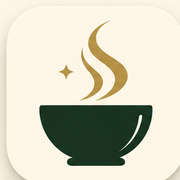
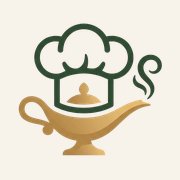
feat: use Recipe Genie mark for iPhone Home Screen

diff --git a/web/src/components/layout/bottom-nav.tsx b/web/src/components/layout/bottom-nav.tsx
@@ -3,6 +3,7 @@
 import { UtensilsCrossed, CalendarDays, ShoppingCart, Package } from "lucide-react"
 import Link, { useLinkStatus } from "next/link"
 import { usePathname } from "next/navigation"
+import { useEffect, useState } from "react"
 import { cn } from "@/lib/utils"
 
 const navItems = [
@@ -15,13 +16,15 @@ const navItems = [
 function BottomNavItem({
   item,
   isActive,
+  isSelected,
 }: {
   item: (typeof navItems)[number]
   isActive: boolean
+  isSelected: boolean
 }) {
   const { pending } = useLinkStatus()
   const Icon = item.icon
-  const isHighlighted = isActive || pending
+  const isHighlighted = isSelected || pending
 
   return (
     <>
@@ -29,7 +32,7 @@ function BottomNavItem({
         className={cn(
           "h-5 w-5 transition-transform duration-150",
           isHighlighted && "scale-110",
-          pending && "animate-pulse"
+          (pending || (isSelected && !isActive)) && "animate-pulse"
         )}
         aria-hidden
       />
@@ -41,13 +44,20 @@ function BottomNavItem({
       >
         {item.label}
       </span>
-      {pending && <span className="sr-only">Loading {item.label}</span>}
+      {(pending || (isSelected && !isActive)) && (
+        <span className="sr-only">Loading {item.label}</span>
+      )}
     </>
   )
 }
 
 export function BottomNav() {
   const pathname = usePathname()
+  const [selectedHref, setSelectedHref] = useState<string | null>(null)
+
+  useEffect(() => {
+    setSelectedHref(null)
+  }, [pathname])
 
   return (
     <nav
@@ -59,22 +69,30 @@ export function BottomNav() {
         {navItems.map((item) => {
           const isActive =
             pathname === item.href || pathname.startsWith(`${item.href}/`)
+          const isSelected = selectedHref
+            ? selectedHref === item.href
+            : isActive
 
           return (
             <Link
               key={item.href}
               href={item.href}
               aria-current={isActive ? "page" : undefined}
+              onClick={() => setSelectedHref(isActive ? null : item.href)}
               className={cn(
                 "flex flex-col items-center justify-center gap-1 px-4 py-2 transition-all duration-150",
                 "min-w-[64px] rounded-lg",
                 "active:scale-95 focus-visible:outline-none focus-visible:ring-2 focus-visible:ring-focus focus-visible:ring-inset",
-                isActive
+                isSelected
                   ? "text-primary"
                   : "text-muted-foreground hover:text-foreground"
               )}
             >
-              <BottomNavItem item={item} isActive={isActive} />
+              <BottomNavItem
+                item={item}
+                isActive={isActive}
+                isSelected={isSelected}
+              />
             </Link>
           )
         })}

diff --git a/web/src/components/layout/__tests__/route-navigation.test.tsx b/web/src/components/layout/__tests__/route-navigation.test.tsx
@@ -144,4 +144,18 @@ describe("route navigation", () => {
     ).toHaveAttribute("aria-current", "page")
     expect(within(bottomNavigation).getAllByRole("link")).toHaveLength(4)
   })
+
+  it("highlights a tapped tab before the route changes", () => {
+    render(<BottomNav />)
+    const navigation = screen.getByRole("navigation", {
+      name: "Bottom navigation",
+    })
+    const shopping = within(navigation).getByRole("link", { name: "Shopping" })
+
+    fireEvent.click(shopping)
+
+    expect(shopping).toHaveClass("text-primary")
+    expect(within(shopping).getByText("Loading Shopping")).toBeInTheDocument()
+    expect(shopping).not.toHaveAttribute("aria-current", "page")
+  })
 })

diff --git a/web/tests/branding.spec.ts b/web/tests/branding.spec.ts
@@ -45,6 +45,8 @@ test.describe('Recipe Genie branding', () => {
     const manifestResponse = await page.request.get('/manifest.json')
     expect(manifestResponse.ok()).toBe(true)
     await expect(manifestResponse.json()).resolves.toMatchObject({
+      id: '/',
+      start_url: '/shopping',
       background_color: '#F7F3EA',
       theme_color: '#2F4B34',
       icons: [
